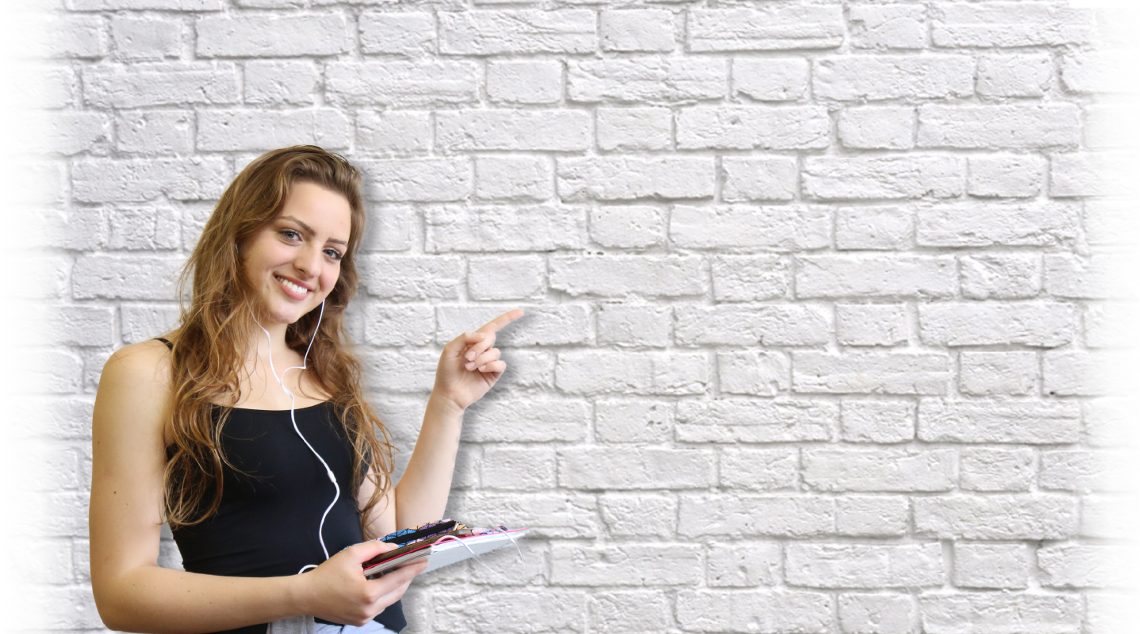
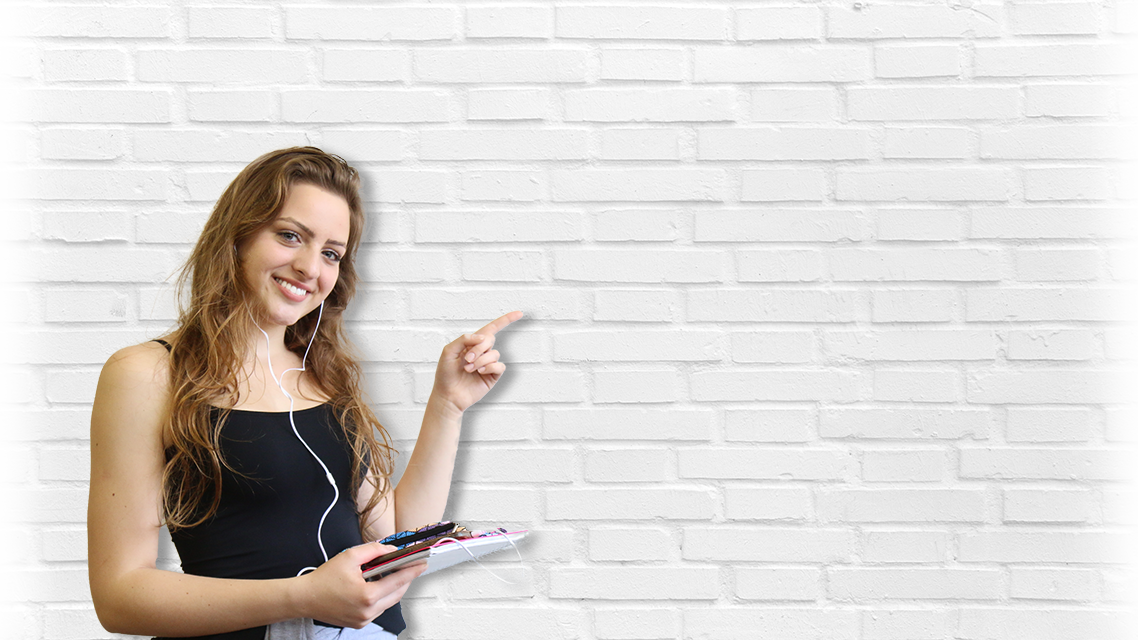
Ajuste na imagem de fundo das chamadas.

Changed region(s): [[0.0307, 0.0, 0.9825, 1.0], [0.2456, 0.6893, 0.2763, 0.7192]]

diff --git a/sass/_home-chamadas.scss b/sass/_home-chamadas.scss
@@ -8,7 +8,7 @@
     .container {
         background: url('../img/bg-chamadas.png') no-repeat left center;
         background-size: cover;
-        min-height: 634px;
+        min-height: 640px;
     }
 
     &__title {
